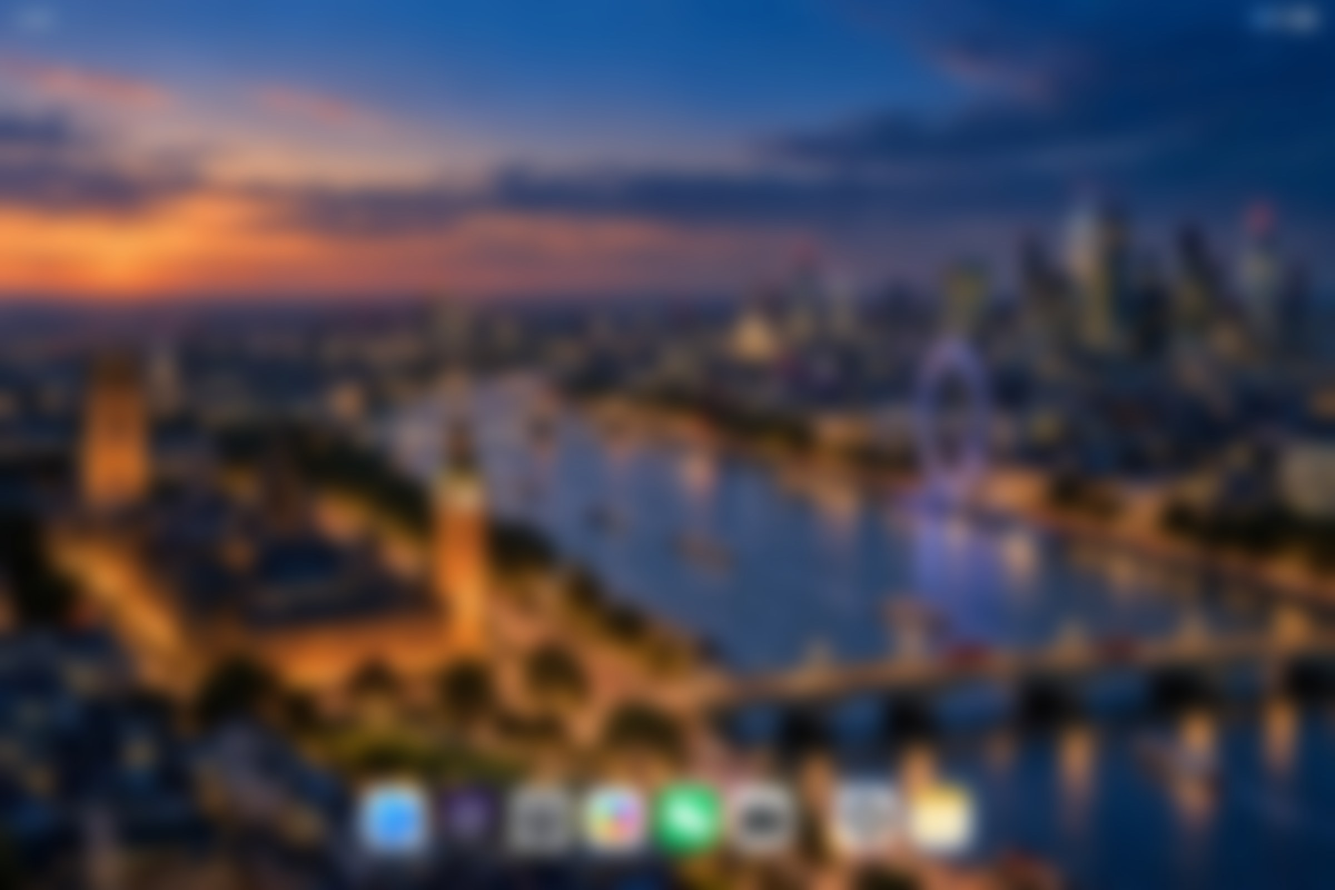
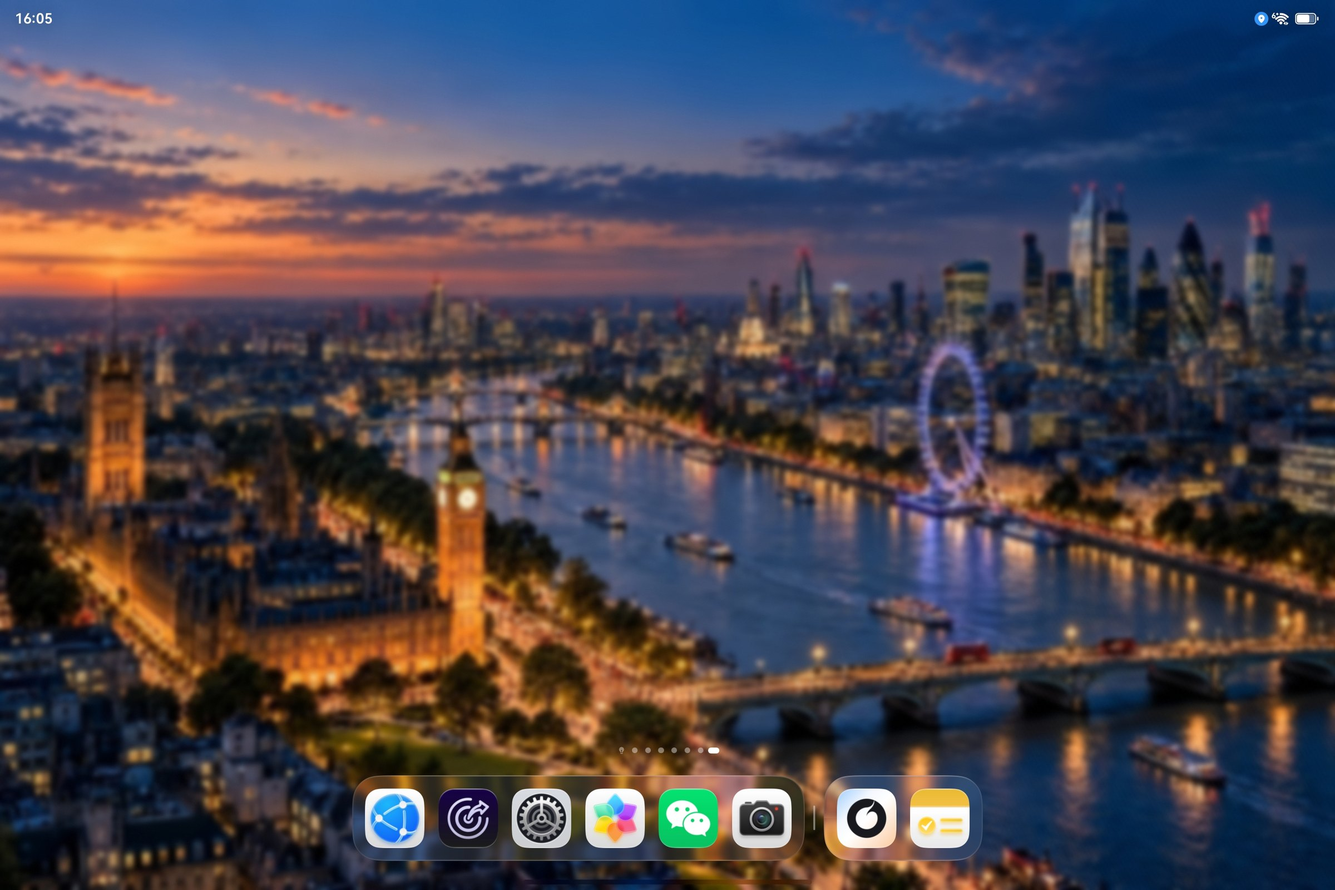
feat(v2.7.1): 打磨壁纸预览与控制

diff --git a/assets/app.js b/assets/app.js
@@ -72,7 +72,8 @@
     iconPrefs: {},
     logs: [],
     signs: [],
-    wallpaper: "yin",
+    wallpaper: "dark",
+    wallpaperBlur: {},
     theme: { mode: "system", effectiveMode: "light" },
     privacy: { isPrivate: false },
     editing: false,
@@ -1837,40 +1838,203 @@
     });
   }
 
-  /* ---------- 壁纸（阴 / 阳） ---------- */
+  /* ---------- 壁纸（Light / Dark + 柔焦） ---------- */
 
-  var WALLPAPER = {
-    yin: "./assets/wallpaper.jpg",
-    yang: "./assets/wallpaper-yang.jpg"
+  var WALLPAPERS = {
+    light: { src: "./assets/wallpaper-yang.jpg", thumb: "./assets/wp-thumb-light.jpg", label: "Light", note: "伦敦夜景" },
+    dark: { src: "./assets/wallpaper.jpg", thumb: "./assets/wp-thumb-dark.jpg", label: "Dark", note: "日漫黄昏" }
   };
 
+  var WP_BLUR_DEFAULT = { light: 5, dark: 0 };
+  var WP_BLUR_MAX = 20;
+  var WP_BLUR_RATIO = 1.2;
+  var WP_THUMB_SCALE = 0.25;
+
+  function wpSide() {
+    return state.wallpaper === "light" ? "light" : "dark";
+  }
+
+  function wpBlurPercent(side) {
+    var value = state.wallpaperBlur[side];
+    return typeof value === "number" ? value : WP_BLUR_DEFAULT[side];
+  }
+
+  function wpBlurPx(side) {
+    return Math.round(wpBlurPercent(side) * WP_BLUR_RATIO * 10) / 10;
+  }
+
   function applyWallpaper() {
-    var side = state.wallpaper === "yang" ? "yang" : "yin";
+    var side = wpSide();
+    var url = 'url("' + WALLPAPERS[side].src + '")';
     try {
-      document.body.style.backgroundImage = 'url("' + WALLPAPER[side] + '")';
+      document.body.style.backgroundImage = url;
+      if (el.wpImg) el.wpImg.style.backgroundImage = url;
+    } catch (error) {
+      /* 忽略 */
+    }
+    try {
+      document.documentElement.style.setProperty("--wp-blur", wpBlurPx(side) + "px");
     } catch (error) {
       /* 忽略 */
     }
     if (el.wallpaperBtn) {
-      el.wallpaperBtn.classList.toggle("yang", side === "yang");
-      el.wallpaperBtn.setAttribute("aria-pressed", side === "yang" ? "true" : "false");
-      el.wallpaperBtn.title = side === "yang" ? "壁纸：阳（点一下换阴）" : "壁纸：阴（点一下换阳）";
+      el.wallpaperBtn.classList.toggle("yang", side === "light");
+      el.wallpaperBtn.setAttribute("aria-pressed", side === "light" ? "true" : "false");
+      el.wallpaperBtn.title = (side === "light" ? "壁纸：Light" : "壁纸：Dark") + "（点一下切换 · 长按细调）";
     }
+  }
+
+  function saveWallpaper() {
+    storageSet("wallpaper", state.wallpaper).catch(function () {});
+    storageSet("wallpaperBlur", state.wallpaperBlur).catch(function () {});
   }
 
   function loadWallpaper() {
     return storageGet("wallpaper", null).then(function (saved) {
-      if (saved === "yin" || saved === "yang") state.wallpaper = saved;
+      if (saved === "yin") saved = "dark";
+      if (saved === "yang") saved = "light";
+      if (saved === "light" || saved === "dark") state.wallpaper = saved;
+      return storageGet("wallpaperBlur", null);
+    }).then(function (savedBlur) {
+      if (savedBlur && typeof savedBlur === "object") {
+        ["light", "dark"].forEach(function (side) {
+          if (typeof savedBlur[side] === "number") state.wallpaperBlur[side] = savedBlur[side];
+        });
+      }
       applyWallpaper();
     }).catch(function () { applyWallpaper(); });
   }
 
-  function bindWallpaper() {
-    if (!el.wallpaperBtn) return;
-    el.wallpaperBtn.addEventListener("click", function () {
-      state.wallpaper = state.wallpaper === "yang" ? "yin" : "yang";
+  function openWallpaperPanel() {
+    var body = document.createElement("div");
+    body.className = "wp-panel";
+
+    var picks = document.createElement("div");
+    picks.className = "wp-picks";
+
+    var blurRow = document.createElement("div");
+    blurRow.className = "wp-blurrow";
+    var blurLabel = document.createElement("span");
+    blurLabel.className = "wp-label";
+    blurLabel.textContent = "柔焦";
+    var range = document.createElement("input");
+    range.type = "range";
+    range.className = "wp-range";
+    range.min = "0";
+    range.max = String(WP_BLUR_MAX);
+    range.step = "1";
+    var value = document.createElement("span");
+    value.className = "wp-value";
+    blurRow.appendChild(blurLabel);
+    blurRow.appendChild(range);
+    blurRow.appendChild(value);
+
+    body.appendChild(picks);
+    body.appendChild(blurRow);
+
+    var thumbs = {};
+
+    function paintThumbs() {
+      ["light", "dark"].forEach(function (side) {
+        var node = thumbs[side];
+        if (node) node.style.filter = "blur(" + (wpBlurPercent(side) * WP_BLUR_RATIO * WP_THUMB_SCALE).toFixed(2) + "px)";
+      });
+    }
+
+    function syncBlur() {
+      var percent = wpBlurPercent(wpSide());
+      range.value = String(percent);
+      value.textContent = percent + "%";
+    }
+
+    function refresh() {
+      picks.textContent = "";
+      ["light", "dark"].forEach(function (side) {
+        var item = WALLPAPERS[side];
+        var card = document.createElement("button");
+        card.type = "button";
+        card.className = "wp-pick" + (wpSide() === side ? " on" : "");
+        var img = document.createElement("img");
+        img.className = "wp-thumb";
+        img.alt = "";
+        img.src = item.thumb;
+        thumbs[side] = img;
+        var cap = document.createElement("span");
+        cap.className = "cap";
+        var name = document.createElement("b");
+        name.textContent = item.label;
+        var note = document.createElement("span");
+        note.textContent = item.note;
+        cap.appendChild(name);
+        cap.appendChild(note);
+        card.appendChild(img);
+        card.appendChild(cap);
+        card.addEventListener("click", function () {
+          state.wallpaper = side;
+          applyWallpaper();
+          saveWallpaper();
+          refresh();
+          syncBlur();
+        });
+        picks.appendChild(card);
+      });
+      paintThumbs();
+    }
+
+    range.addEventListener("input", function () {
+      state.wallpaperBlur[wpSide()] = Number(range.value) || 0;
+      value.textContent = state.wallpaperBlur[wpSide()] + "%";
       applyWallpaper();
-      storageSet("wallpaper", state.wallpaper).catch(function () {});
+      paintThumbs();
+    });
+    range.addEventListener("change", saveWallpaper);
+
+    openSheet({
+      title: "壁纸",
+      content: body,
+      center: true,
+      buttons: [{ label: "完成", variant: "primary", size: "sm", run: function () { closeSheet(); } }]
+    });
+    refresh();
+    syncBlur();
+  }
+
+  function bindWallpaper() {
+    var node = el.wallpaperBtn;
+    if (!node) return;
+    var timer = null;
+    var fired = false;
+
+    node.addEventListener("pointerdown", function (event) {
+      if (event.button && event.button !== 0) return;
+      fired = false;
+      if (timer) clearTimeout(timer);
+      timer = setTimeout(function () {
+        timer = null;
+        fired = true;
+        openWallpaperPanel();
+      }, 480);
+    });
+
+    ["pointerup", "pointercancel", "pointerleave"].forEach(function (name) {
+      node.addEventListener(name, function () {
+        if (timer) { clearTimeout(timer); timer = null; }
+      });
+    });
+
+    node.addEventListener("click", function (event) {
+      if (fired) {
+        fired = false;
+        event.preventDefault();
+        return;
+      }
+      if (!event.detail) {
+        openWallpaperPanel();
+        return;
+      }
+      state.wallpaper = wpSide() === "light" ? "dark" : "light";
+      applyWallpaper();
+      saveWallpaper();
     });
   }
 
@@ -2097,7 +2261,8 @@
       sheetMask: $("sheetMask"),
       toast: $("toast"),
       dailyLog: $("dailyLog"),
-      wallpaperBtn: $("btnWallpaper")
+      wallpaperBtn: $("btnWallpaper"),
+      wpImg: $("wpImg")
     };
 
     tickClock();

diff --git a/assets/app.css b/assets/app.css
@@ -241,9 +241,134 @@ input[type="search"]::-webkit-search-cancel-button { display: none; }
 :root[data-theme="dark"] .wp-toggle.yang .wp-lit { fill: #1A2130; }
 :root[data-theme="dark"] .wp-toggle.yang .wp-dark { fill: #F3C892; }
 
+/* 壁纸层：位于壁纸之上、内容之下；模糊只作用于这一层，不会糊到界面 */
+.wp-img {
+  position: fixed;
+  inset: -26px;
+  z-index: 0;
+  pointer-events: none;
+  background-position: center center;
+  background-size: cover;
+  background-repeat: no-repeat;
+  filter: blur(var(--wp-blur, 0px));
+  -webkit-filter: blur(var(--wp-blur, 0px));
+}
+
+/* 壁纸面板 */
+.wp-picks {
+  display: grid;
+  grid-template-columns: 1fr 1fr;
+  gap: 12px;
+}
+.wp-pick {
+  display: flex;
+  flex-direction: column;
+  gap: 8px;
+  padding: 10px;
+  border-radius: 18px;
+  background: var(--glass);
+  border: 1px solid var(--glass-line);
+  box-shadow: inset 0 1px 0 var(--glass-top);
+  transition: transform 0.16s ease, box-shadow 0.2s ease;
+}
+.wp-pick:active { transform: scale(0.98); }
+.wp-pick.on {
+  border-color: var(--accent);
+  box-shadow: 0 0 0 1px var(--accent), inset 0 1px 0 var(--glass-top);
+}
+.wp-thumb {
+  display: block;
+  width: 100%;
+  aspect-ratio: 3 / 2;
+  object-fit: cover;
+  border-radius: 12px;
+  background: var(--glass-3);
+}
+.wp-pick .cap {
+  display: flex;
+  align-items: baseline;
+  justify-content: space-between;
+  gap: 6px;
+  padding: 0 2px 2px;
+}
+.wp-pick .cap b {
+  font-size: 13px;
+  font-weight: 700;
+  letter-spacing: 0.6px;
+  color: var(--ink);
+}
+.wp-pick .cap span {
+  font-size: 10.5px;
+  letter-spacing: 0.4px;
+  color: var(--ink-3);
+}
+
+.wp-blurrow {
+  display: flex;
+  align-items: center;
+  gap: 12px;
+  margin-top: 18px;
+  padding: 0 2px;
+}
+.wp-blurrow .wp-label {
+  flex: none;
+  font-size: 11.5px;
+  letter-spacing: 1.4px;
+  color: var(--ink-3);
+}
+.wp-blurrow .wp-value {
+  flex: none;
+  min-width: 40px;
+  text-align: right;
+  font-size: 12.5px;
+  color: var(--ink-2);
+  font-variant-numeric: tabular-nums;
+}
+.wp-range {
+  flex: 1 1 auto;
+  min-width: 0;
+  height: 26px;
+  margin: 0;
+  background: none;
+  -webkit-appearance: none;
+  appearance: none;
+}
+.wp-range::-webkit-slider-runnable-track {
+  height: 6px;
+  border-radius: 99px;
+  background: var(--glass-3);
+  border: 1px solid var(--glass-line);
+}
+.wp-range::-webkit-slider-thumb {
+  -webkit-appearance: none;
+  appearance: none;
+  width: 22px;
+  height: 22px;
+  margin-top: -9px;
+  border-radius: 50%;
+  background: #fff;
+  border: 1px solid rgba(120, 150, 180, 0.28);
+  box-shadow: 0 3px 10px rgba(6, 10, 24, 0.22);
+}
+.wp-range::-moz-range-track {
+  height: 6px;
+  border-radius: 99px;
+  background: var(--glass-3);
+}
+.wp-range::-moz-range-thumb {
+  width: 22px;
+  height: 22px;
+  border-radius: 50%;
+  background: #fff;
+  border: 1px solid rgba(120, 150, 180, 0.28);
+}
+:root[data-theme="dark"] .wp-range::-webkit-slider-thumb { background: #E8EDF6; }
+
 /* ---------- 页面骨架 ---------- */
 
 .page {
+  position: relative;
+  z-index: 2;
   max-width: var(--content-max);
   margin: 0 auto;
   padding: 10px 40px calc(150px + var(--safe-b));

diff --git a/index.html b/index.html
@@ -22,6 +22,7 @@
   </script>
 </head>
 <body>
+  <div class="wp-img" id="wpImg" aria-hidden="true"></div>
   <header class="topbar">
     <div class="topbar-left">
       <div class="clock">
